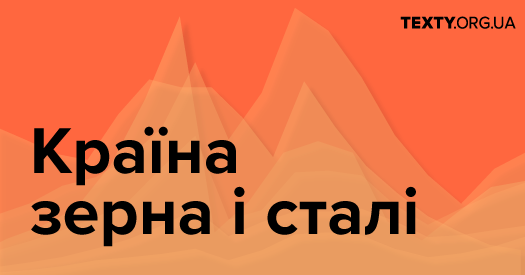
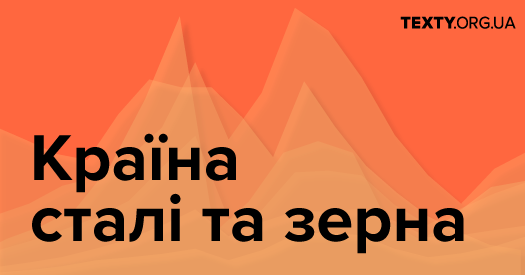
фб-кавер

Changed region(s): [[0.061, 0.4945, 0.8838, 0.9309], [0.061, 0.4655, 0.3352, 0.6982], [0.3352, 0.5527, 0.3657, 0.6109]]

diff --git a/index.html b/index.html
@@ -10,7 +10,7 @@
 <meta property="og:type" content="website"/>
 <meta property="og:title"
       content="Країна сталі і зерна"/>
-<meta property="og:image" content="http://texty.org.ua/d/2020/trade-map/img/cover_header.png"/>
+<meta property="og:image" content="http://texty.org.ua/d/2020/trade-map/img/cover.png"/>
 <meta property="og:description"
       content="«Тексти» проаналізували дані ITC по українському експорту та імпорту з 2001 по 2018 роки"/>
 <meta property="og:url" content="http://texty.org.ua/d/2020/trade-map/"/>
@@ -24,7 +24,7 @@
 <meta name="twitter:title" content="Країна сталі і зерна"/>
 <meta name="twitter:description"
       content="«Тексти» проаналізували дані ITC по українському експорту та імпорту з 2001 по 2018 роки"/>
-<meta name="twitter:image:src" content="http://texty.org.ua/d/2020/trade-map/img/cover_header.png"/>
+<meta name="twitter:image:src" content="http://texty.org.ua/d/2020/trade-map/img/cover.png"/>
 <meta name="twitter:image:width" content="1200"/>
 <meta name="twitter:image:height" content="630"/>
 
